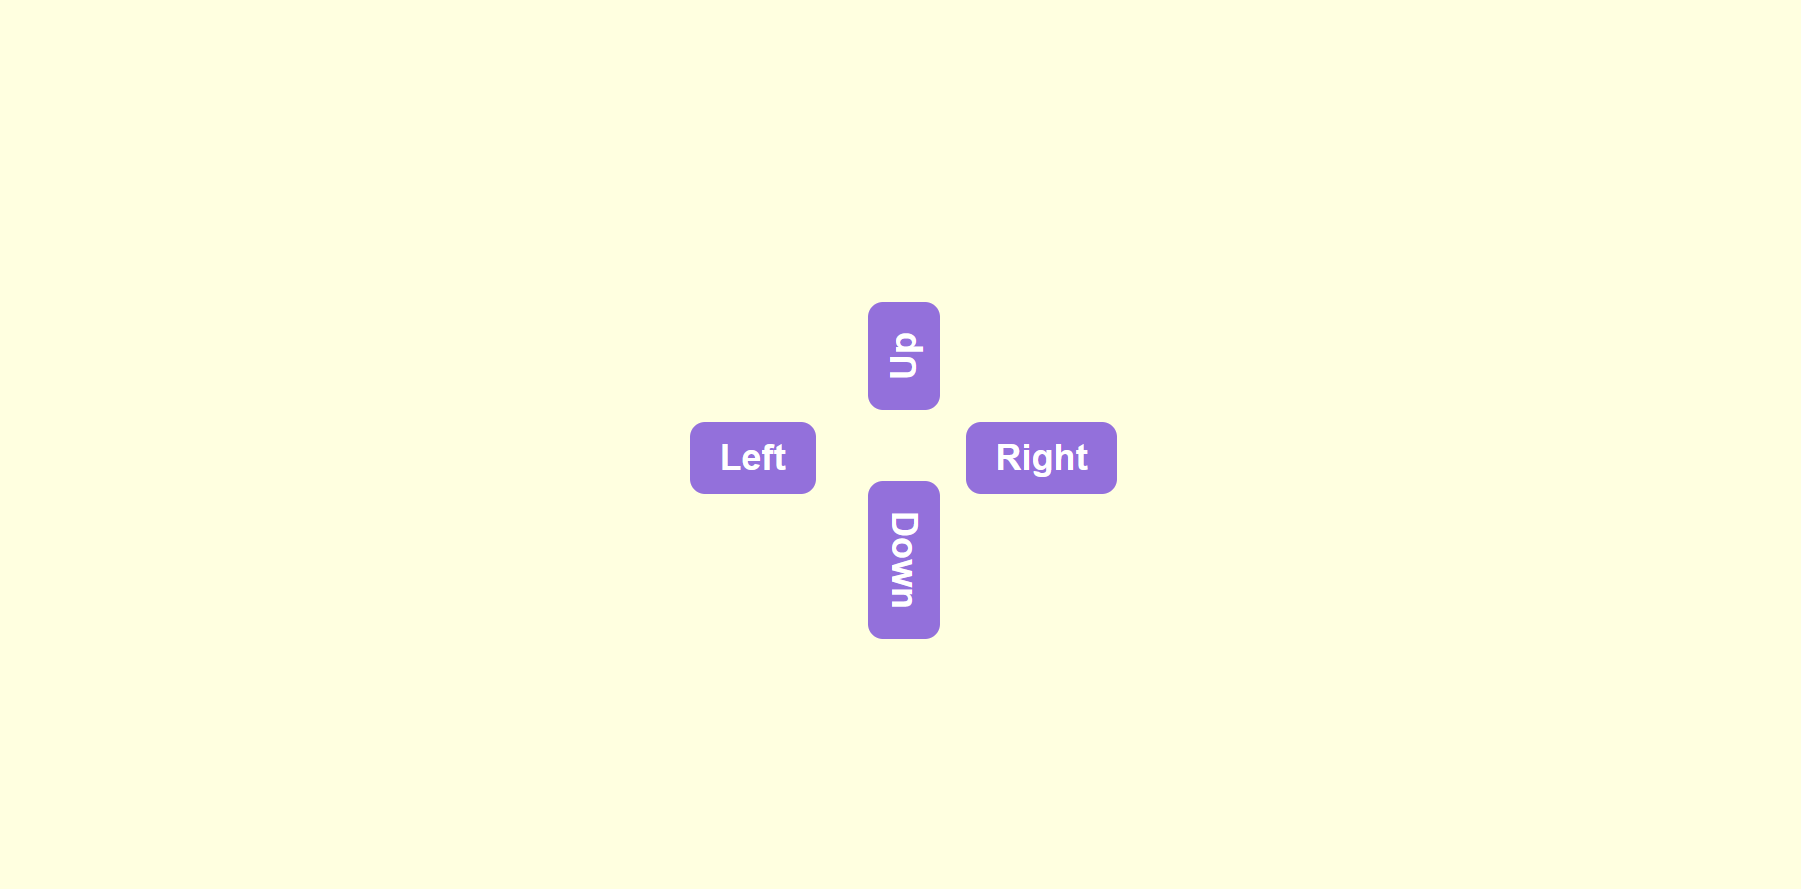
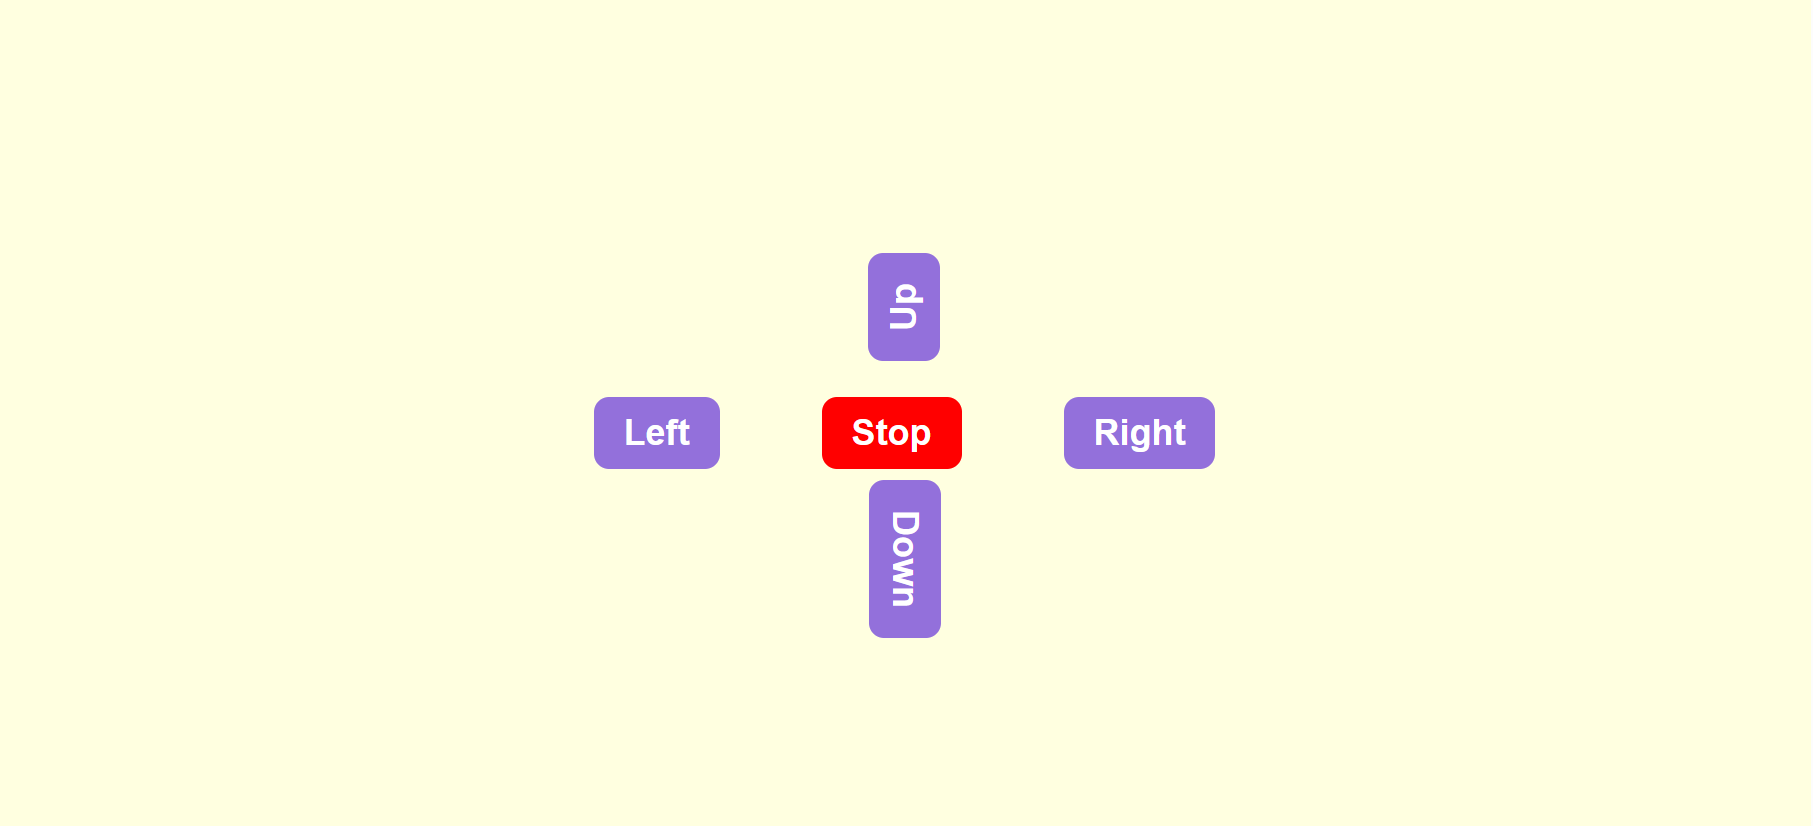
Add files via upload

Changed region(s): [[0.3109, 0.3027, 0.6841, 0.7869], [0.995, 0.0, 1.0, 1.0]]

diff --git a/insert_direction.php b/insert_direction.php
@@ -1,0 +1,38 @@
+<?php
+// connect to the database
+$servername = "localhost";
+$username = "root";
+$password = "";
+$dbname = "robot_db";
+$conn = new mysqli($servername, $username, $password, $dbname);
+if ($conn->connect_error) {
+  die("Connection failed: " . $conn->connect_error);
+}
+
+// get the direction data from the form
+$direction = $_POST["direction"];
+// perform any actions needed based on the direction value
+switch ($direction) {
+  case "up":
+    echo " up";
+    break;
+  case "down":
+    echo " down";
+    break;
+  case "left":
+    echo " left";
+    break;
+  case "right":
+    echo " right";
+    break;
+  case "stop":
+    // perform any actions needed to stop the robot
+    echo " stop";
+    break;
+  default:
+    echo "Unknown direction";
+    break;
+}
+
+// close the database connection
+$conn->close();
